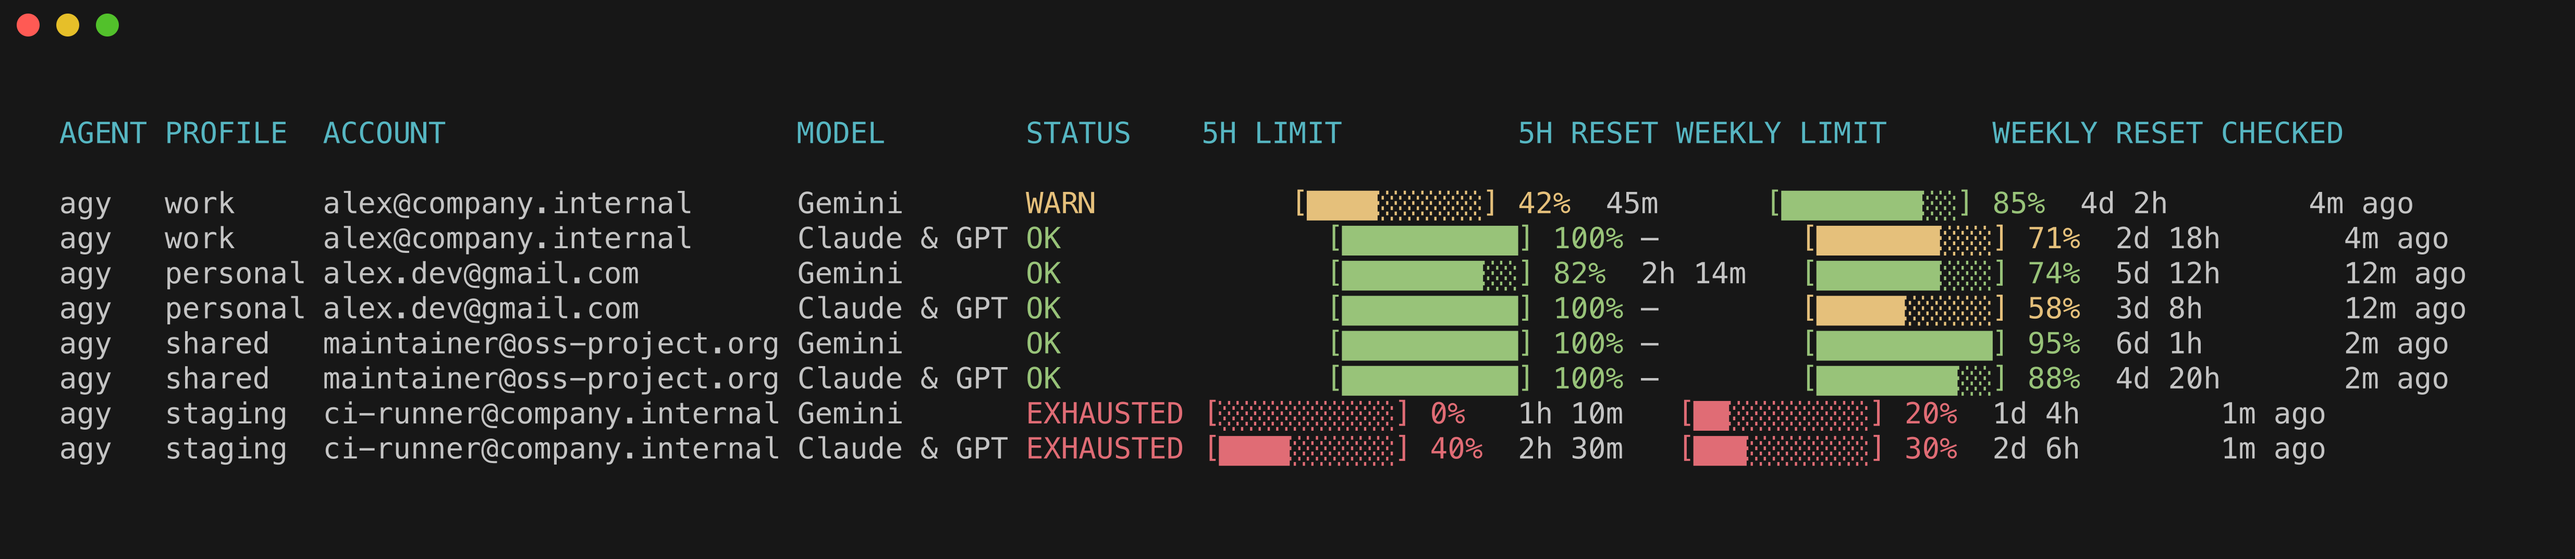
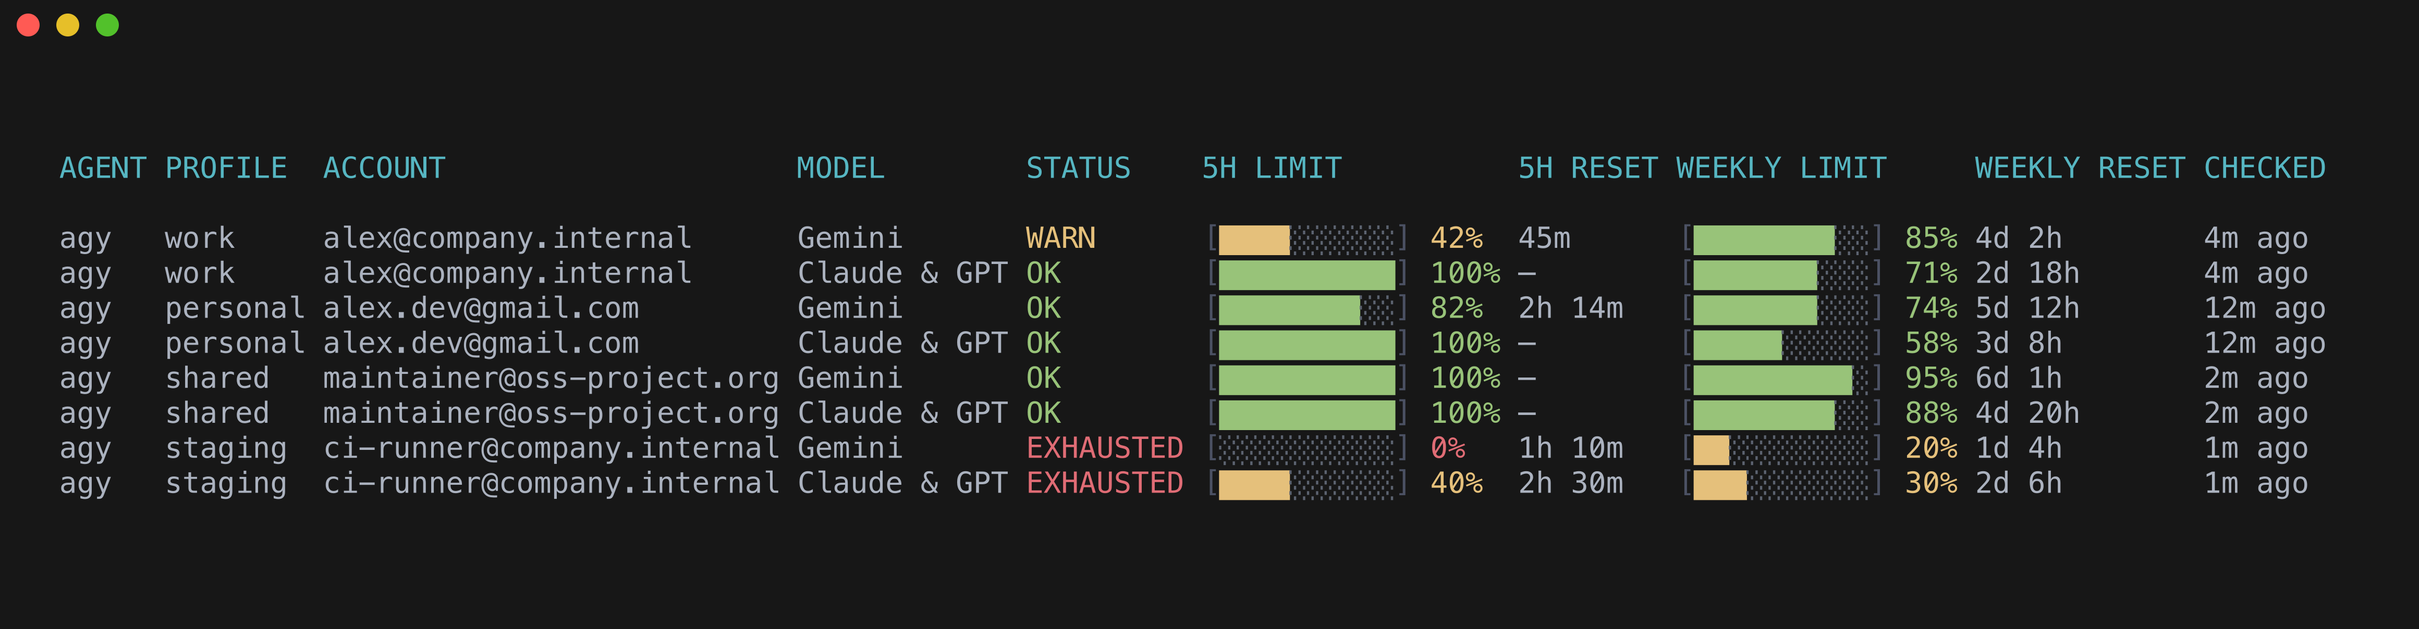
fix(cli): use lipgloss table for sessions and usage tabular alignment

diff --git a/cmd/aim/sessions.go b/cmd/aim/sessions.go
@@ -14,6 +14,7 @@ import (
 	"github.com/aim-cli/aim/internal/session/providers/codex"
 	"github.com/aim-cli/aim/internal/tui"
 	"github.com/charmbracelet/lipgloss"
+	"github.com/charmbracelet/lipgloss/table"
 	"github.com/spf13/cobra"
 )
 
@@ -121,23 +122,18 @@ func renderSessionsTable(w io.Writer, sessions []session.Session, activeOnly boo
 	}
 
 	headerStyle := lipgloss.NewStyle().Bold(true).Foreground(tui.TextBright)
-	colHeaderStyle := lipgloss.NewStyle().Bold(true).Foreground(tui.AccentBlue)
 	activeStatusStyle := lipgloss.NewStyle().Bold(true).Foreground(tui.StatusGreen)
 	mutedStyle := lipgloss.NewStyle().Foreground(tui.TextMuted)
 	cyanStyle := lipgloss.NewStyle().Foreground(tui.AccentCyan)
 
 	if len(activeSessions) > 0 {
 		fmt.Fprintln(w, headerStyle.Render("ACTIVE SESSIONS"))
-		fmt.Fprintf(w, "%-10s %-8s %-12s %-32s %-12s %s\n",
-			colHeaderStyle.Render("PROFILE"),
-			colHeaderStyle.Render("AGENT"),
-			colHeaderStyle.Render("SESSION ID"),
-			colHeaderStyle.Render("TITLE"),
-			colHeaderStyle.Render("STARTED"),
-			colHeaderStyle.Render("STATUS"),
-		)
+		t := table.New().
+			Border(lipgloss.HiddenBorder()).
+			Headers("PROFILE", "AGENT", "SESSION ID", "TITLE", "STARTED", "STATUS")
+
 		for _, s := range activeSessions {
-			title := truncateString(s.Title, 30)
+			title := truncateString(s.Title, 40)
 			if title == "" {
 				title = "(untitled)"
 			}
@@ -147,7 +143,7 @@ func renderSessionsTable(w io.Writer, sessions []session.Session, activeOnly boo
 				statusStr = fmt.Sprintf("ACTIVE (PID %d)", s.PID)
 			}
 
-			fmt.Fprintf(w, "%-10s %-8s %-12s %-32s %-12s %s\n",
+			t.Row(
 				s.Profile,
 				s.Agent,
 				s.ShortID,
@@ -156,6 +152,15 @@ func renderSessionsTable(w io.Writer, sessions []session.Session, activeOnly boo
 				activeStatusStyle.Render(statusStr),
 			)
 		}
+
+		t.StyleFunc(func(row, col int) lipgloss.Style {
+			if row == table.HeaderRow {
+				return lipgloss.NewStyle().Bold(true).Foreground(tui.AccentBlue)
+			}
+			return lipgloss.NewStyle().Foreground(tui.TextPrimary)
+		})
+
+		fmt.Fprintln(w, t.Render())
 	}
 
 	if !activeOnly && len(recentSessions) > 0 {
@@ -163,21 +168,18 @@ func renderSessionsTable(w io.Writer, sessions []session.Session, activeOnly boo
 			fmt.Fprintln(w)
 		}
 		fmt.Fprintln(w, headerStyle.Render("RECENT SESSIONS"))
-		fmt.Fprintf(w, "%-10s %-8s %-12s %-46s %s\n",
-			colHeaderStyle.Render("PROFILE"),
-			colHeaderStyle.Render("AGENT"),
-			colHeaderStyle.Render("SESSION ID"),
-			colHeaderStyle.Render("TITLE"),
-			colHeaderStyle.Render("LAST ACTIVE"),
-		)
+		t := table.New().
+			Border(lipgloss.HiddenBorder()).
+			Headers("PROFILE", "AGENT", "SESSION ID", "TITLE", "LAST ACTIVE")
+
 		for _, s := range recentSessions {
-			title := truncateString(s.Title, 44)
+			title := truncateString(s.Title, 46)
 			if title == "" {
 				title = "(untitled)"
 			}
 			lastActive := formatRelativeTime(s.LastActiveAt)
 
-			fmt.Fprintf(w, "%-10s %-8s %-12s %-46s %s\n",
+			t.Row(
 				s.Profile,
 				s.Agent,
 				s.ShortID,
@@ -185,6 +187,15 @@ func renderSessionsTable(w io.Writer, sessions []session.Session, activeOnly boo
 				mutedStyle.Render(lastActive),
 			)
 		}
+
+		t.StyleFunc(func(row, col int) lipgloss.Style {
+			if row == table.HeaderRow {
+				return lipgloss.NewStyle().Bold(true).Foreground(tui.AccentBlue)
+			}
+			return lipgloss.NewStyle().Foreground(tui.TextPrimary)
+		})
+
+		fmt.Fprintln(w, t.Render())
 	}
 }
 

diff --git a/cmd/aim/usage.go b/cmd/aim/usage.go
@@ -469,8 +469,8 @@ func printTable(headers []string, rows [][]string, useColor bool) {
 
 	if useColor {
 		t.StyleFunc(func(row, col int) lipgloss.Style {
-			if row == 0 {
-				return lipgloss.NewStyle().Bold(true).Foreground(tui.TextBright)
+			if row == table.HeaderRow {
+				return lipgloss.NewStyle().Bold(true).Foreground(tui.AccentCyan)
 			}
 			return lipgloss.NewStyle().Foreground(tui.TextPrimary)
 		})
